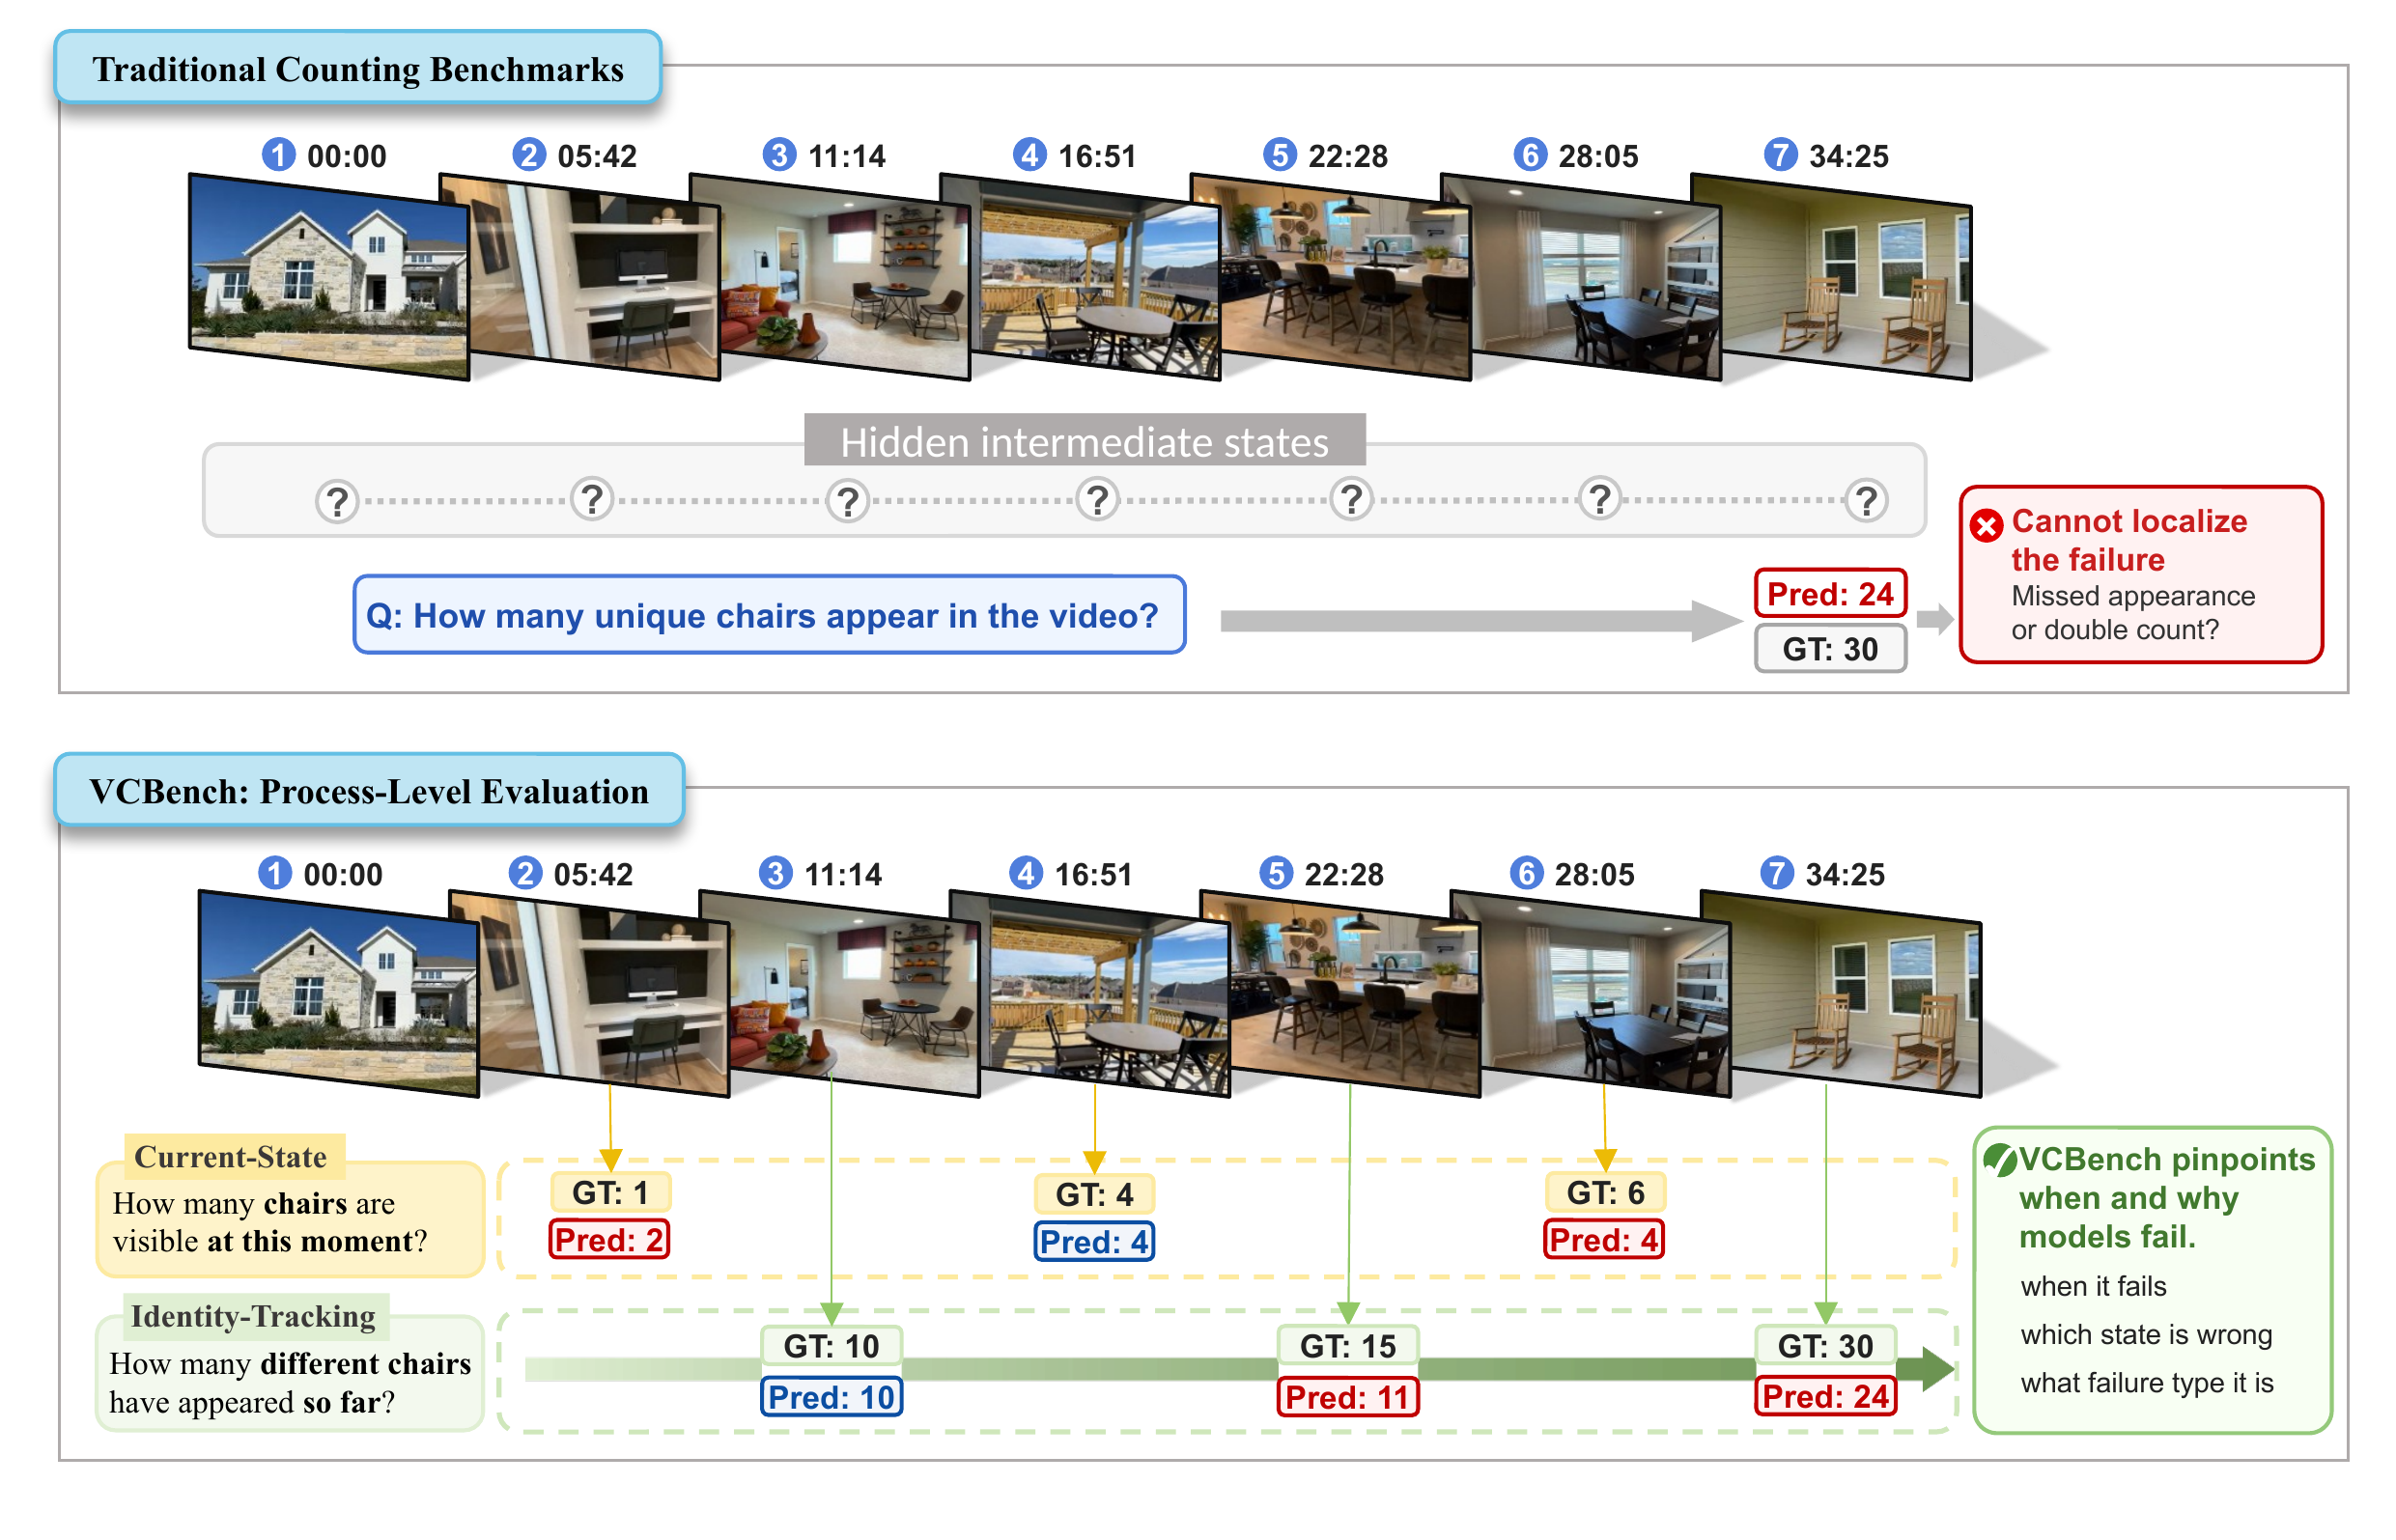
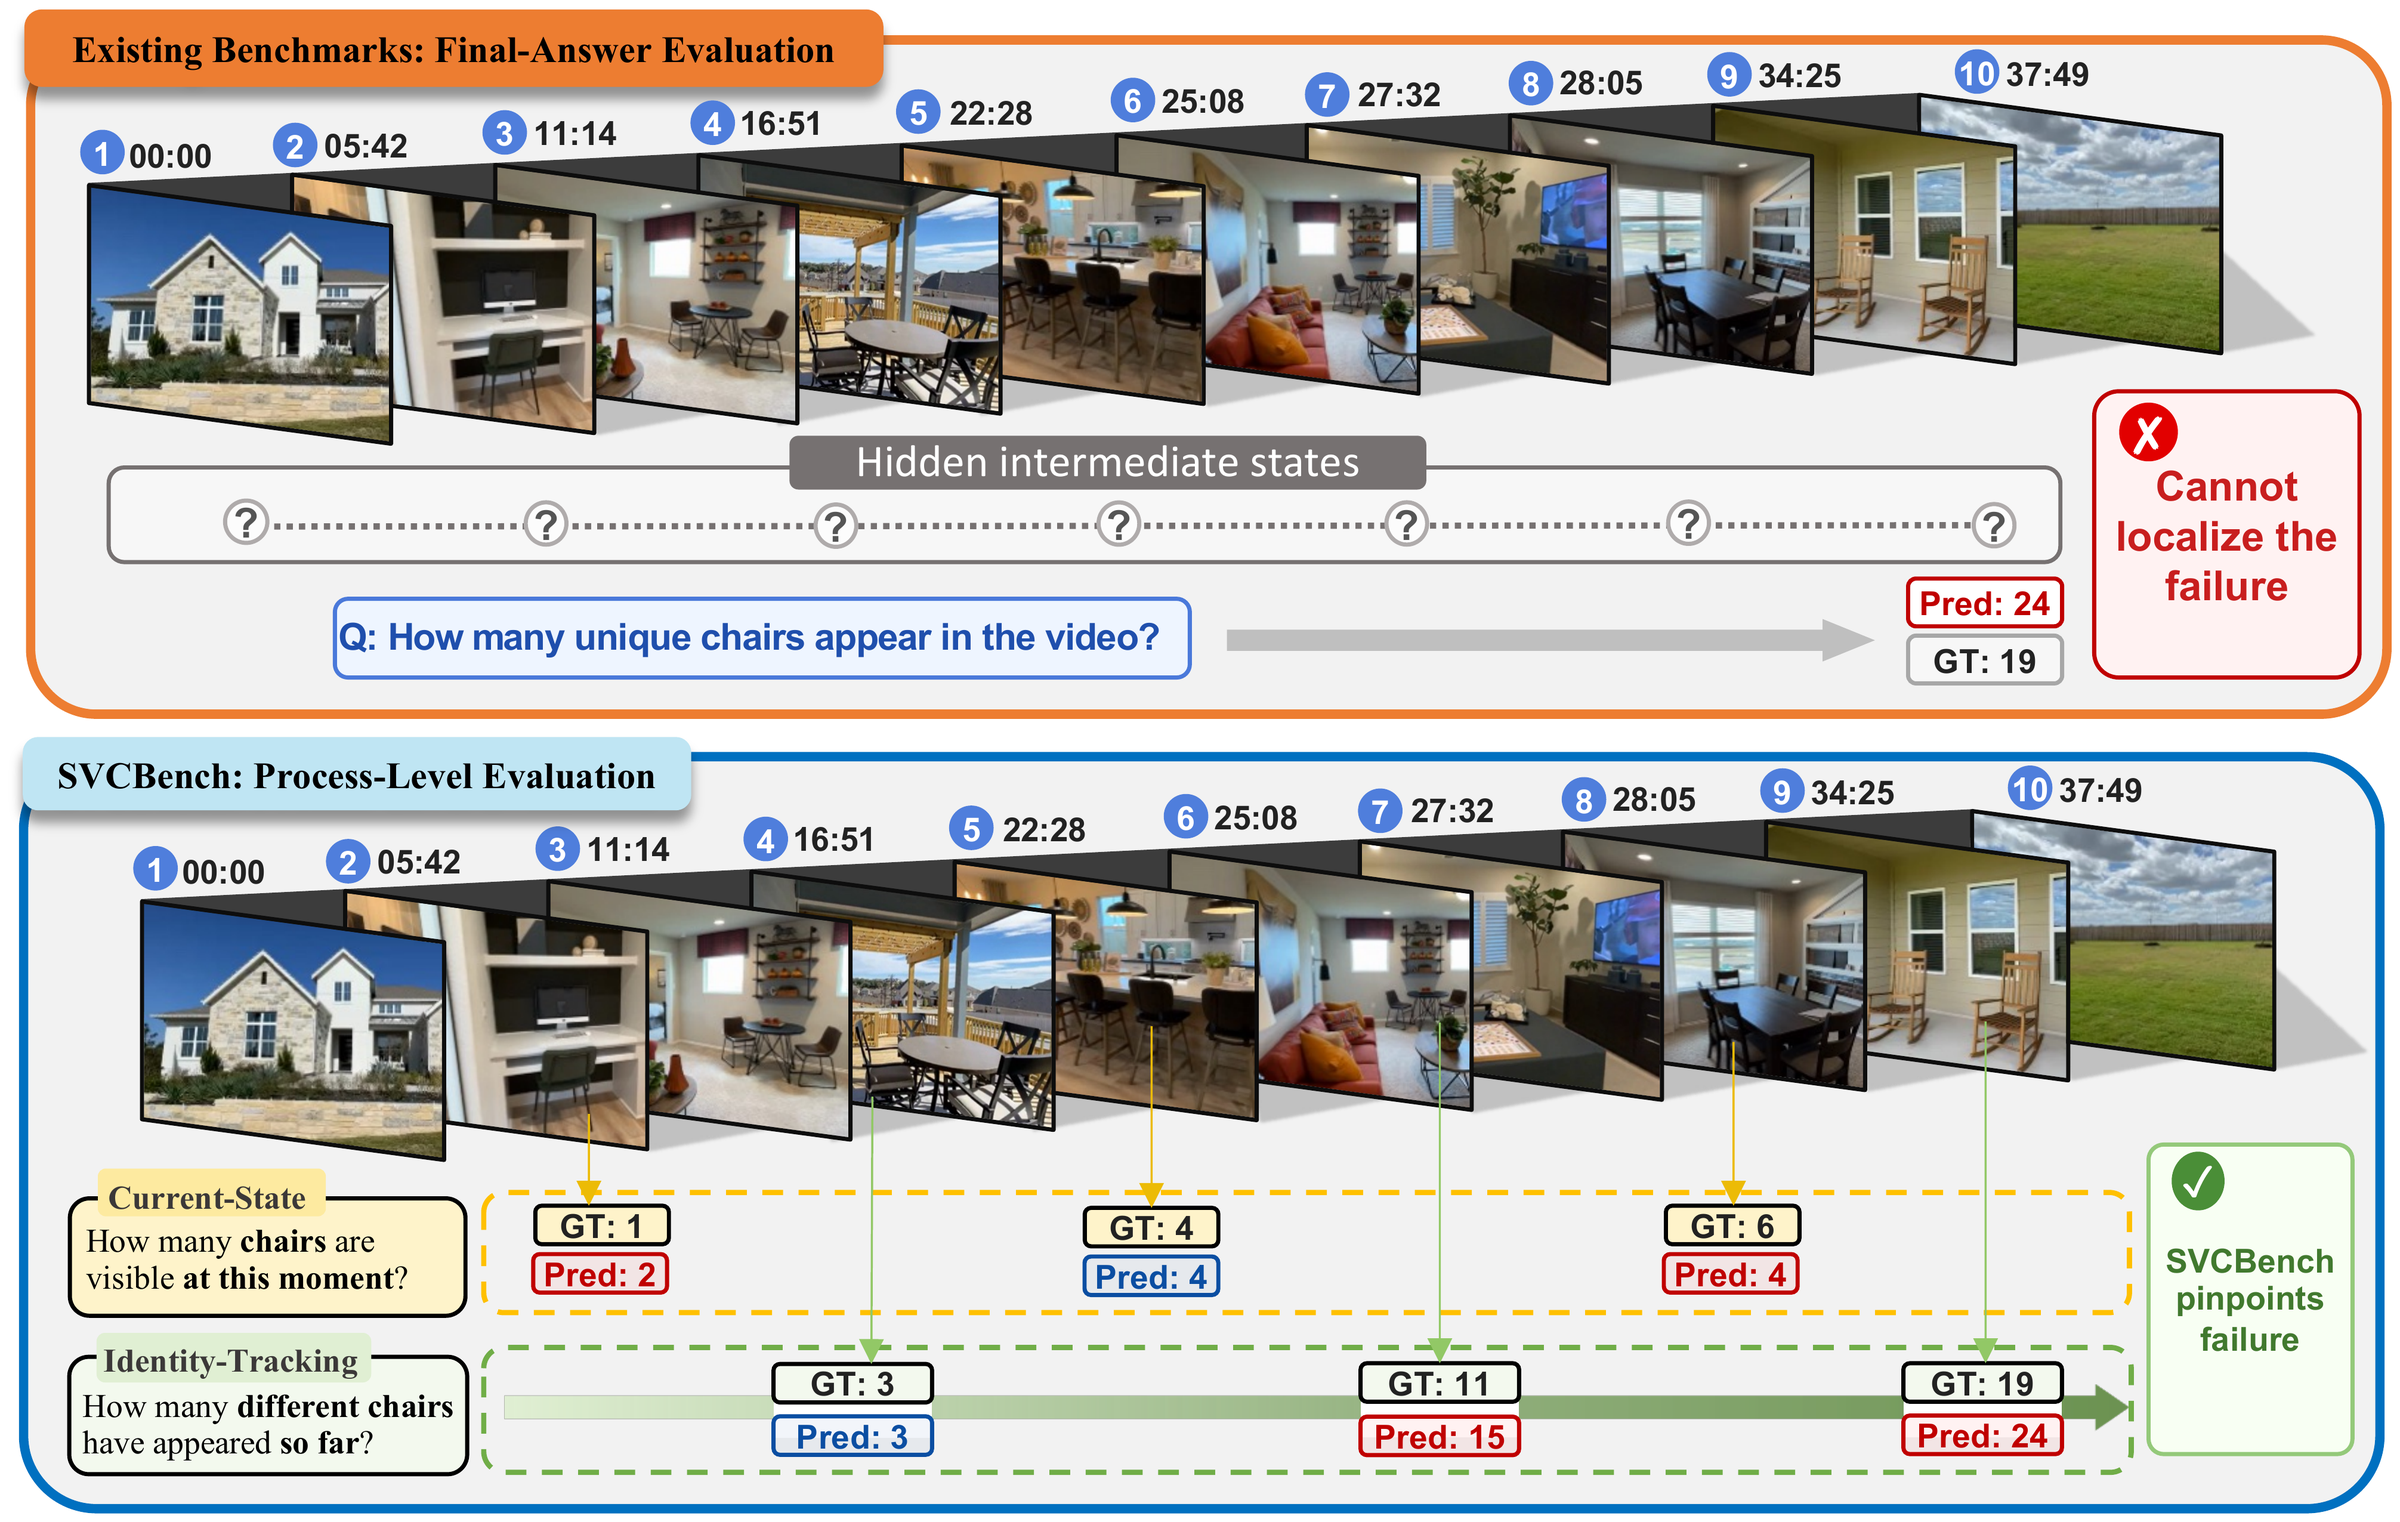
docs: rebrand to SVCBench, add ECCV'26 acceptance, fix metric name + data license
- Rename VCBench -> SVCBench across title, badges, prose, citation (HF dataset
  id buaaplay/SVCBench; internal data filenames left unchanged).
- Add "[2026-06] accepted to ECCV 2026" to News.
- Fix UDA to its paper name "Update Detection Accuracy" (was "Direction").
- Align data license with the paper/HF card: CC BY-NC 4.0 (non-commercial).
- Replace teaser image with the paper's overview figure (01_overview).

diff --git a/README.md b/README.md
@@ -1,6 +1,6 @@
 <div align="center">
 
-<h1>VCBench: A Streaming Counting Benchmark for Spatial-Temporal State Maintenance in Long Videos</h1>
+<h1>SVCBench: A Streaming Video Counting Benchmark for Spatial-Temporal State Maintenance</h1>
 
 <div>
     <a href='https://github.com/buaaplay' target='_blank'>Pengyiang Liu</a><sup>1</sup>&emsp;
@@ -23,8 +23,8 @@
         <a href="https://arxiv.org/abs/2603.12703" target='_blank'>
         <img src="https://img.shields.io/badge/arXiv-2603.12703-b31b1b.svg">
         </a>
-        <a href="https://huggingface.co/datasets/buaaplay/VCBench" target='_blank'>
-        <img src="https://img.shields.io/badge/🤗%20Dataset-VCBench-yellow">
+        <a href="https://huggingface.co/datasets/buaaplay/SVCBench" target='_blank'>
+        <img src="https://img.shields.io/badge/🤗%20Dataset-SVCBench-yellow">
         </a>
         <a href="#-citation" target='_blank'>
         <img src="https://img.shields.io/badge/Cite-BibTeX-blue">
@@ -32,7 +32,7 @@
     </h4>
 </div>
 
-<strong>VCBench is a streaming counting benchmark that treats counting as a minimal probe for diagnosing spatial-temporal state maintenance in video-language models.</strong>
+<strong>SVCBench is a streaming video counting benchmark that treats counting as a minimal probe for diagnosing spatial-temporal state maintenance in video-language models.</strong>
 
 <div style="text-align:center">
 <img src="assets/teaser.png"  width="100%" height="100%">
@@ -44,15 +44,16 @@
 
 ## 📢 News
 
-* **[2026-03]** 🔥 VCBench paper is released on [arXiv](https://arxiv.org/abs/2603.12703).
+* **[2026-03]** 🔥 SVCBench paper is released on [arXiv](https://arxiv.org/abs/2603.12703).
 * **[2026-04]** 🚀 Code, evaluation scripts, and benchmark data are open-sourced.
+* **[2026-06]** 🎉 SVCBench is accepted to **ECCV 2026**!
 
 ## 💡 Highlights
 
-* **Streaming Evaluation Protocol**. VCBench queries a model at multiple time points during video playback and measures how its predictions evolve over time, rather than only checking a single final answer.
+* **Streaming Evaluation Protocol**. SVCBench queries a model at multiple time points during video playback and measures how its predictions evolve over time, rather than only checking a single final answer.
 * **Fine-grained Taxonomy**. The benchmark decomposes counting into 8 subcategories across two axes (object counting & event counting), covering current-state snapshots, state deltas, identity tracking, windowed gains, atomic actions, state transitions, episodic segments, and periodic actions.
 * **Large-scale Annotations**. 406 videos, 1,000 questions, 4,576 query points, and 10,071 annotated event/state-change moments.
-* **Three Complementary Metrics**. GPA (Gaussian Precision Accuracy), MoC (Monotonicity Consistency), and UDA (Update Direction Accuracy) for comprehensive evaluation.
+* **Three Complementary Metrics**. GPA (Gaussian Precision Accuracy), MoC (Monotonicity Consistency), and UDA (Update Detection Accuracy) for comprehensive evaluation.
 
 ## 🛠️ Usage
 
@@ -67,7 +68,7 @@ pip install -r requirements.txt
 Download the benchmark videos from Hugging Face:
 
 ```bash
-huggingface-cli download buaaplay/VCBench --repo-type dataset --local-dir data/videos
+huggingface-cli download buaaplay/SVCBench --repo-type dataset --local-dir data/videos
 ```
 
 The videos should be organized as:
@@ -93,7 +94,7 @@ bash run_gemini_eval.sh --video-dir data/videos --limit 5
 ```
 
 The script will:
-1. Run Gemini on a demo slice of VCBench
+1. Run Gemini on a demo slice of SVCBench
 2. Write raw per-query-point outputs to `outputs/`
 3. Convert the raw file to unified format
 4. Compute GPA, MoC, and UDA
@@ -127,15 +128,15 @@ python eval/compute_metrics.py outputs/unified.jsonl data/vcbench_eval.jsonl
 |--------|-------------|-----------|
 | GPA | Gaussian Precision Accuracy | Higher is better |
 | MoC | Monotonicity Consistency | Higher is better |
-| UDA | Update Direction Accuracy | Higher is better |
+| UDA | Update Detection Accuracy | Higher is better |
 
 ## 📝 Citation
 
 If you find this work useful, please consider citing our paper:
 
 ```bibtex
-@misc{liu2026vcbench,
-      title={VCBench: A Streaming Counting Benchmark for Spatial-Temporal State Maintenance in Long Videos}, 
+@misc{liu2026svcbench,
+      title={SVCBench: A Streaming Video Counting Benchmark for Spatial-Temporal State Maintenance}, 
       author={Pengyiang Liu and Zhongyue Shi and Hongye Hao and Qi Fu and Xueting Bi and Siwei Zhang and Xiaoyang Hu and Zitian Wang and Linjiang Huang and Si Liu},
       year={2026},
       eprint={2603.12703},
@@ -147,7 +148,7 @@ If you find this work useful, please consider citing our paper:
 
 ## 📄 License
 
-This project is licensed under the [Apache License 2.0](./LICENSE). The dataset (`data/`) is released under [CC BY 4.0](https://creativecommons.org/licenses/by/4.0/).
+This project is licensed under the [Apache License 2.0](./LICENSE). The dataset (`data/`) is released under [CC BY-NC 4.0](https://creativecommons.org/licenses/by-nc/4.0/), for non-commercial research use.
 
 ## 🙏 Acknowledgement
 